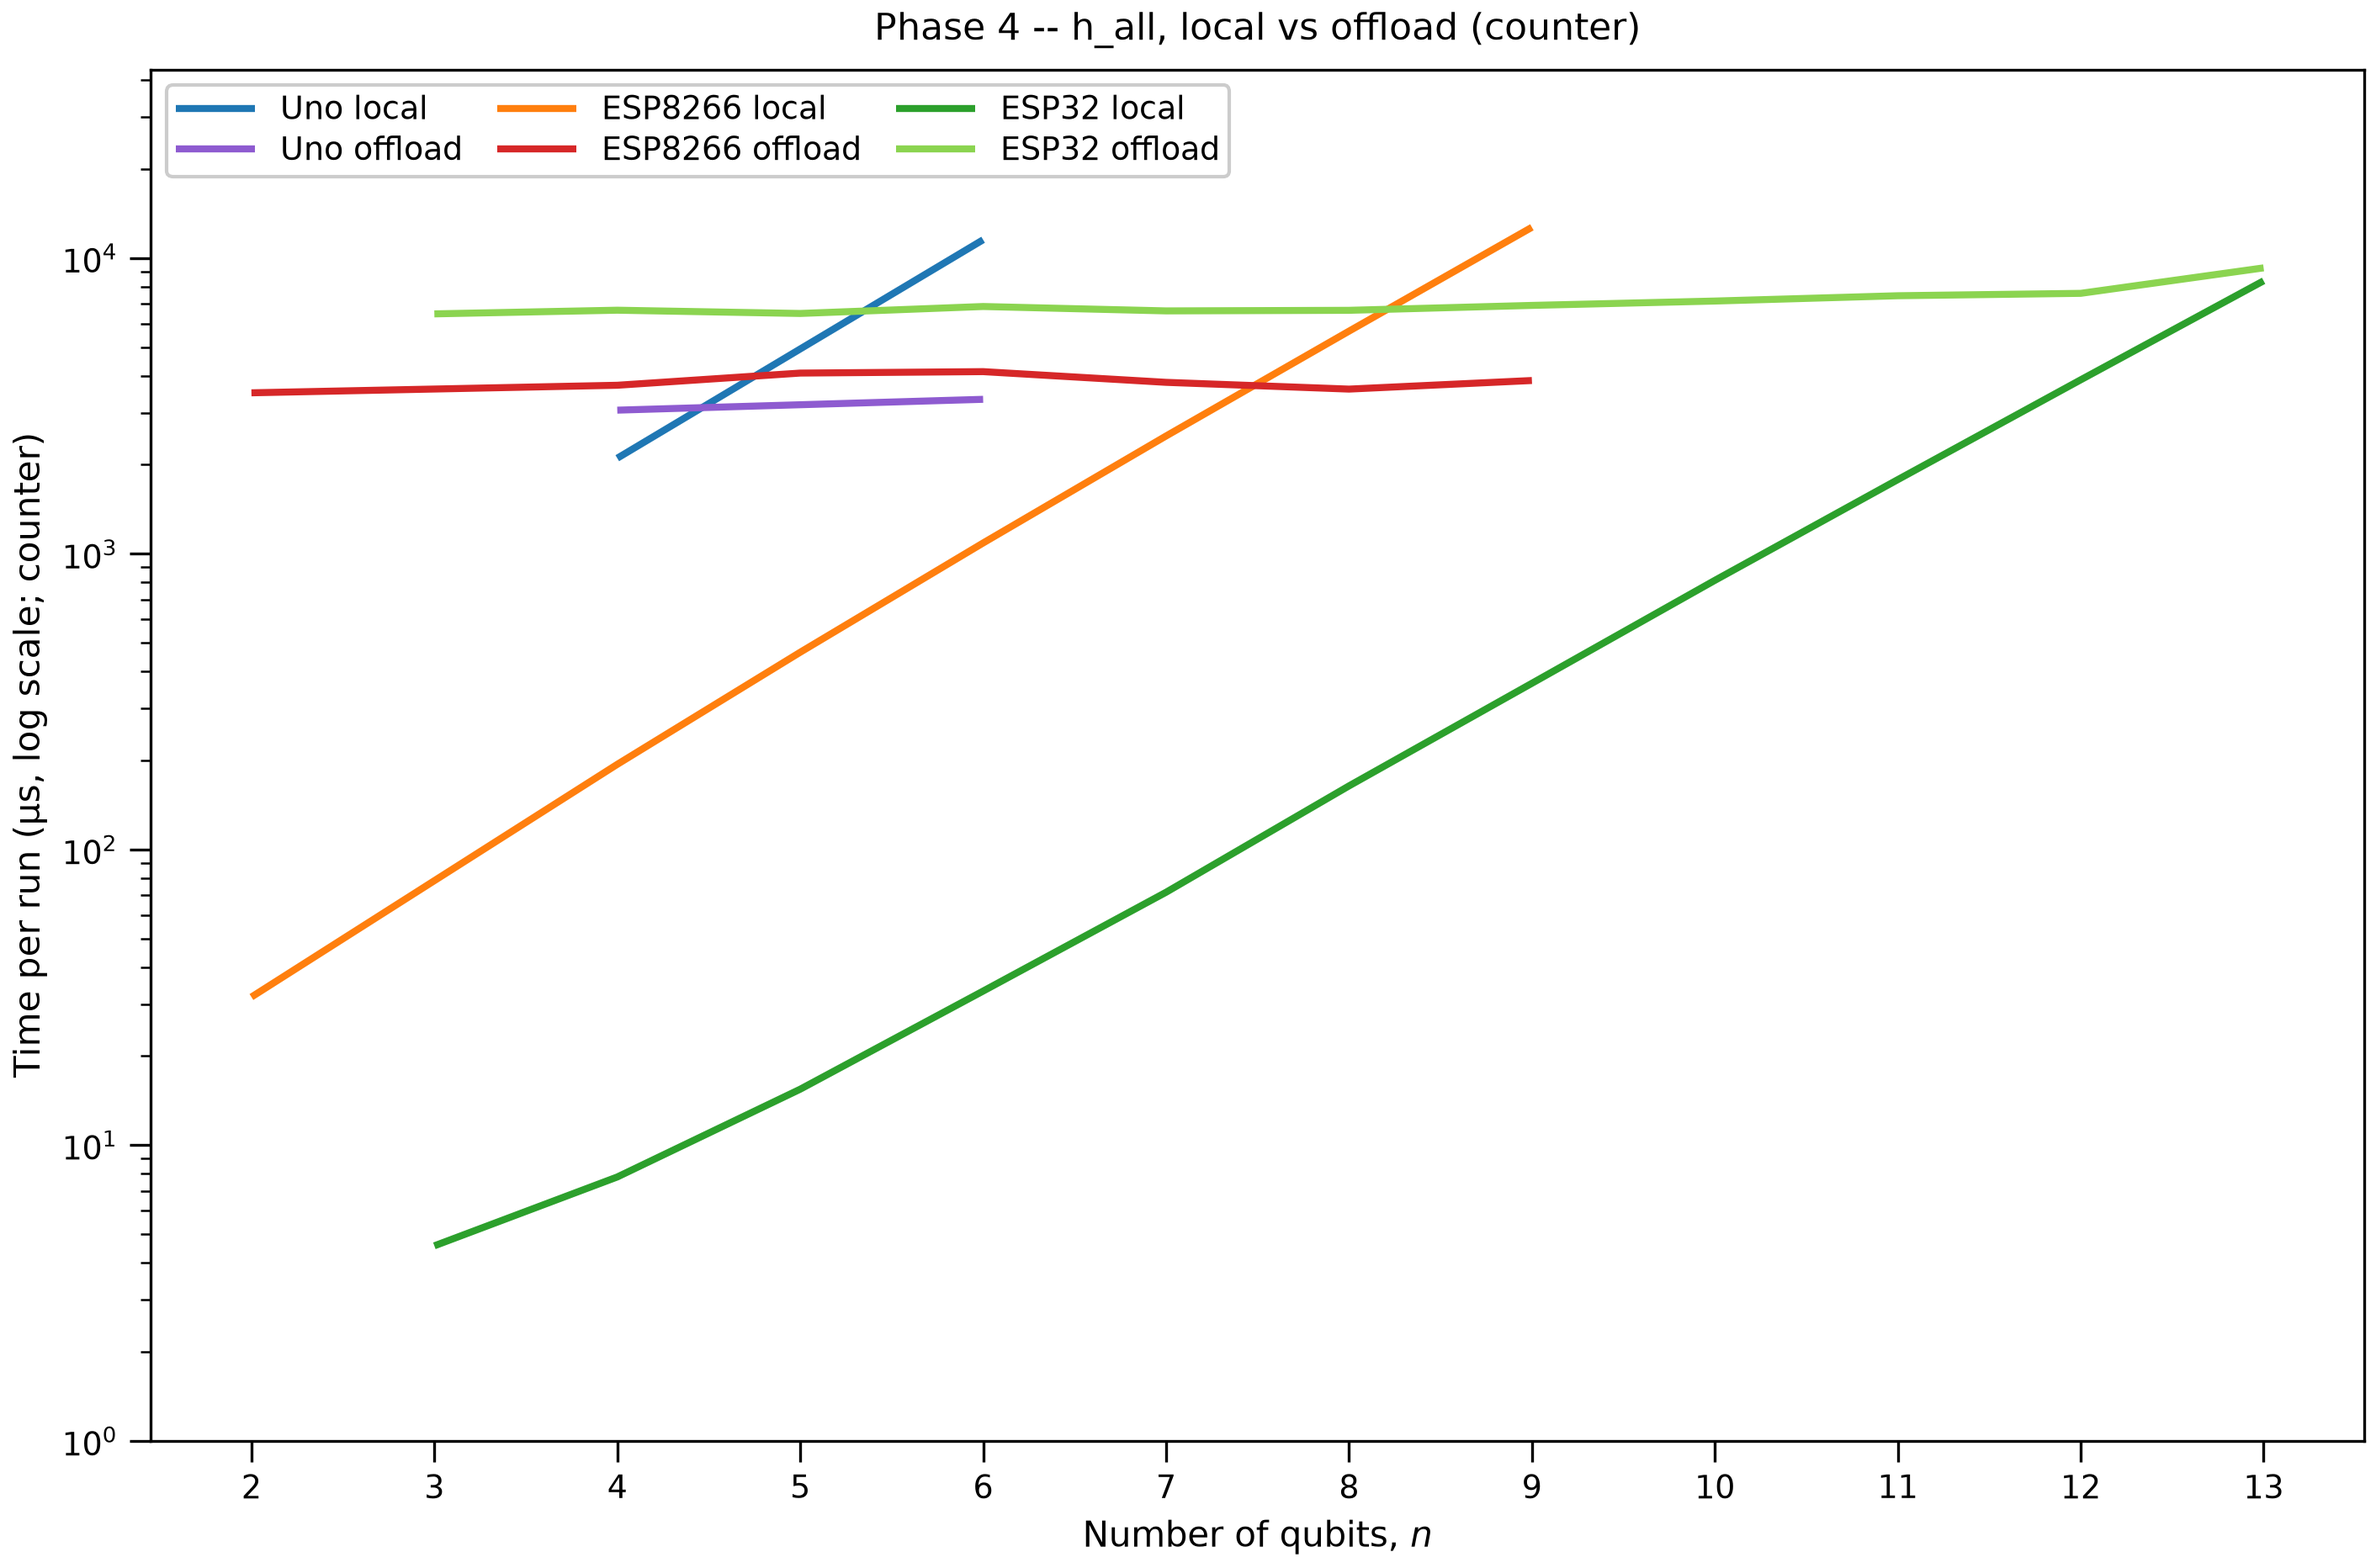
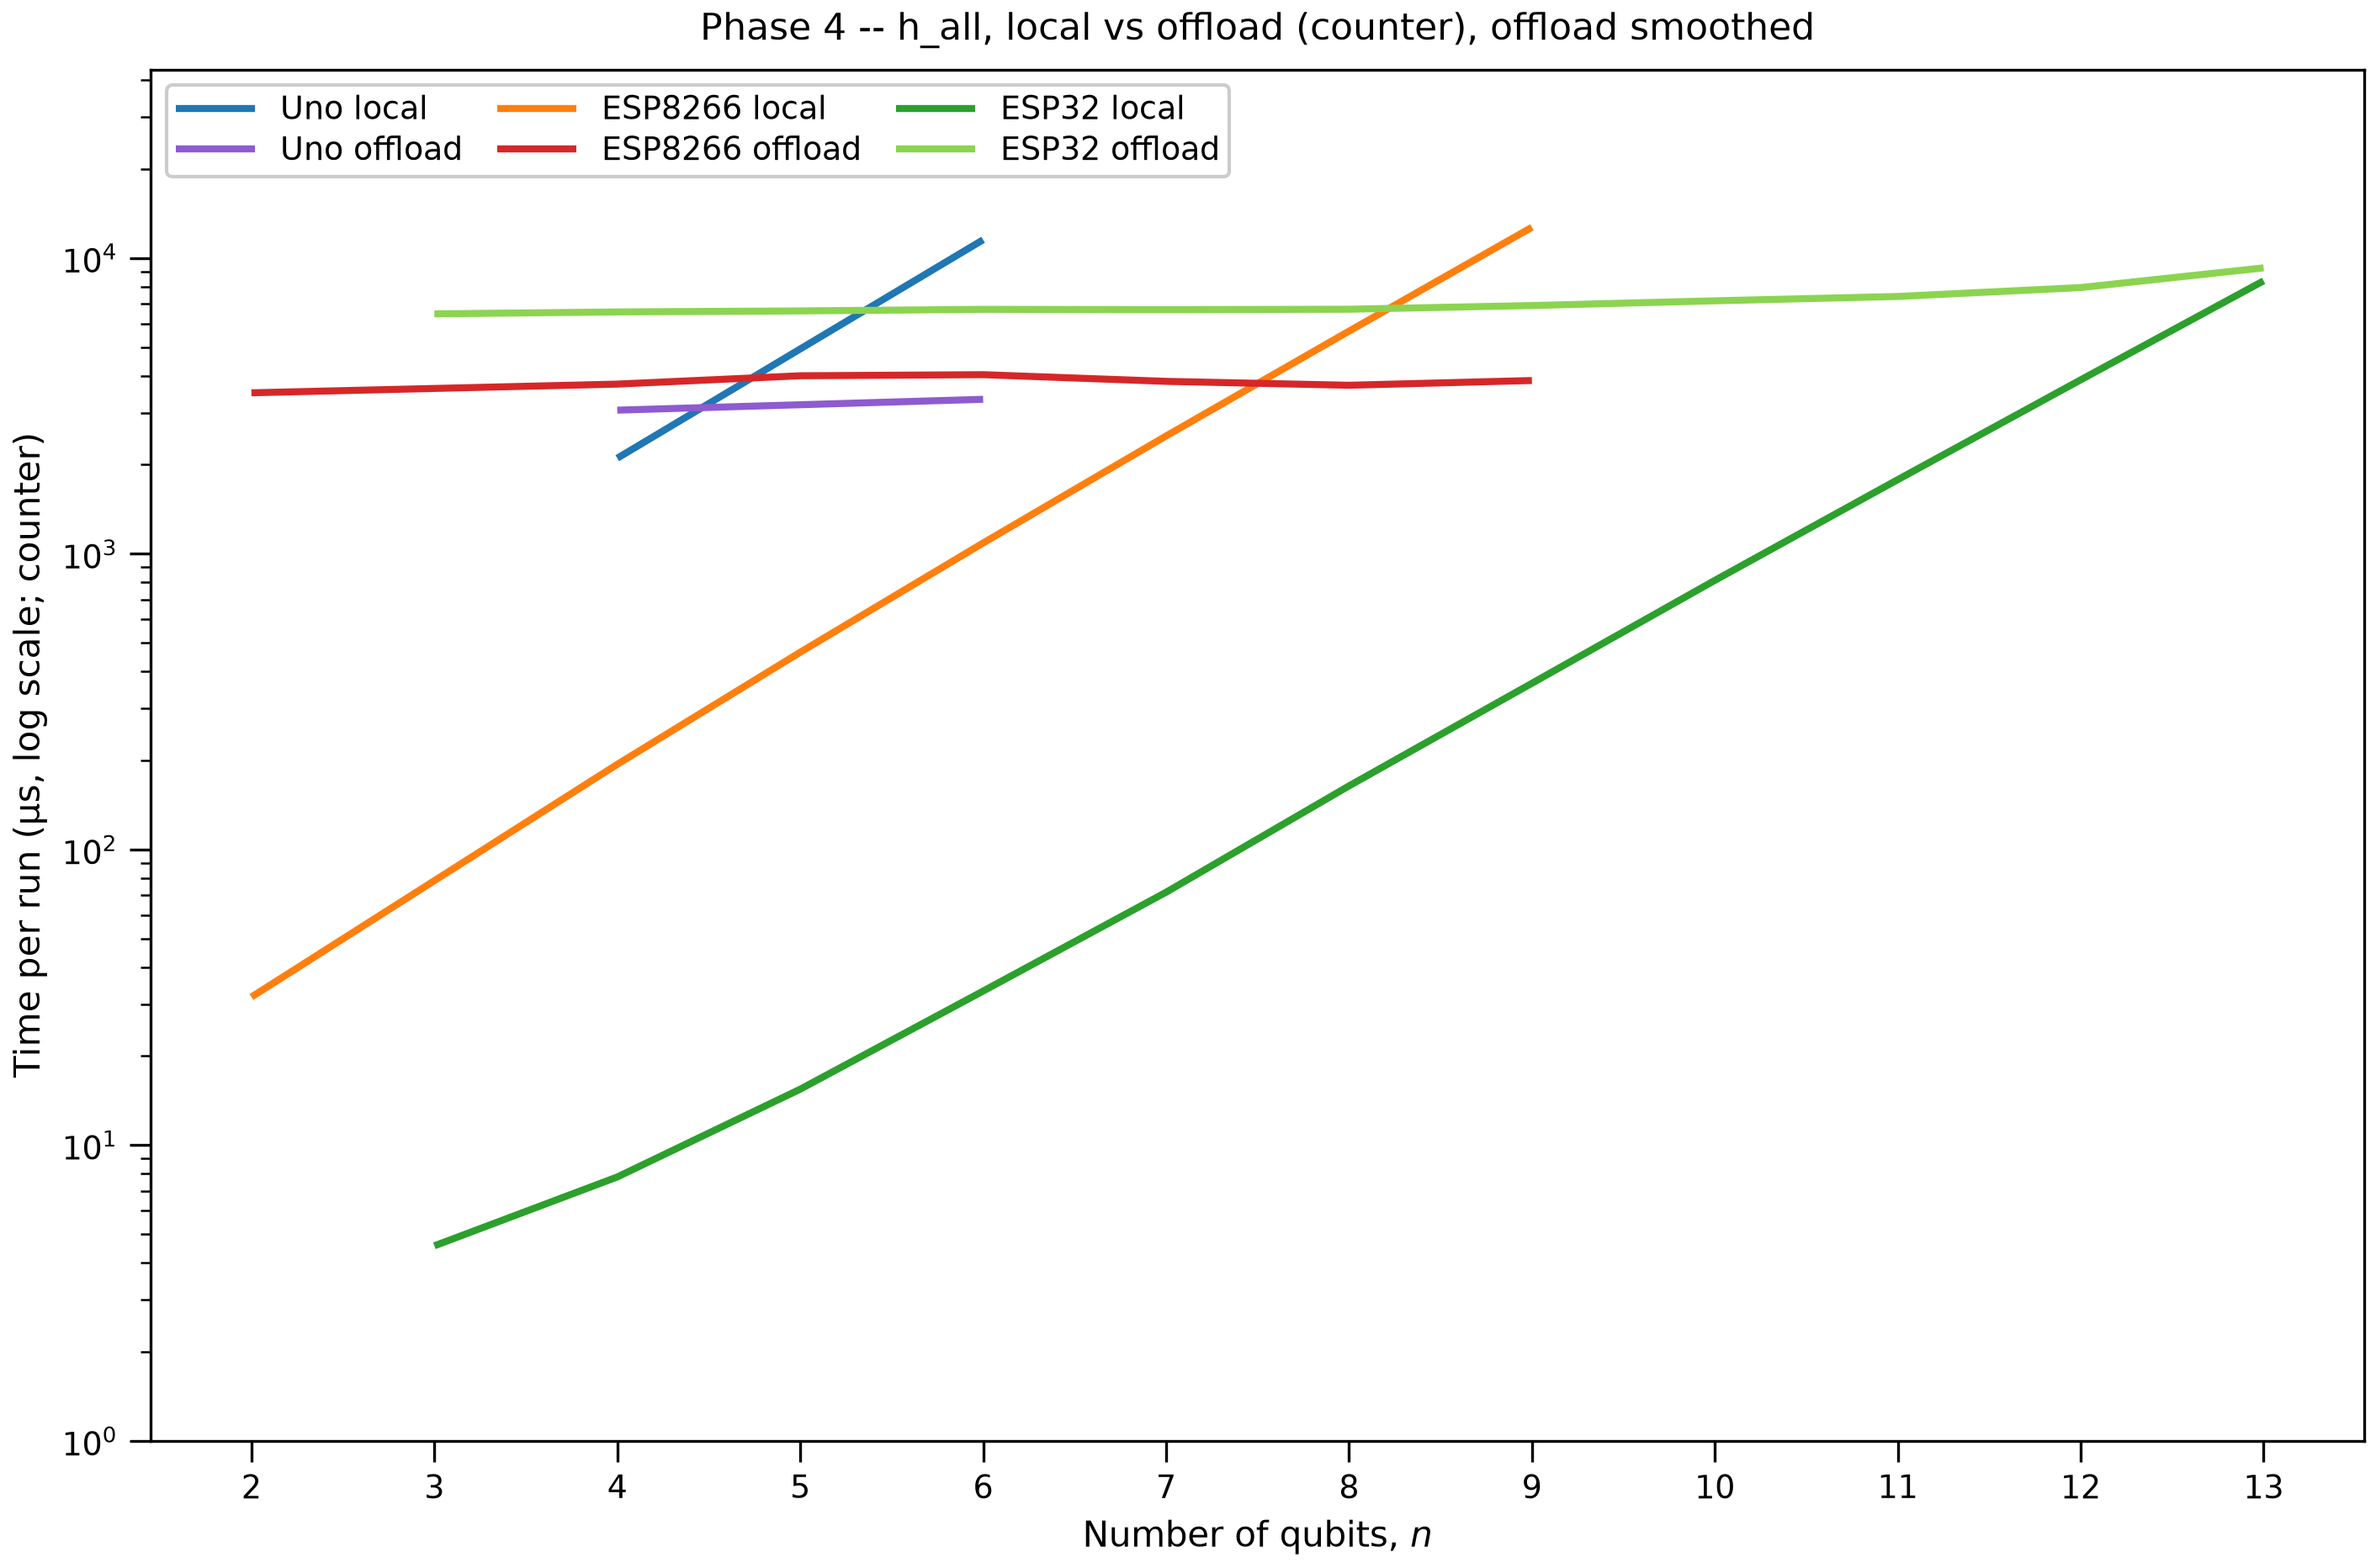
figures: algorithms charts, offload lines smoothed for display (stated in the title), local lines as measured
Claude-Session: https://claude.ai/code/session_01AE6WdfFceGc968bUQSKnsU

diff --git a/analysis/algorithm_house_plots.py b/analysis/algorithm_house_plots.py
@@ -1,6 +1,7 @@
 #!/usr/bin/env python3
 # algorithm_house_plots.py
 # One chart per circuit (three boards), in the house line-chart style of the graph-create skill (grouped log-y lines, no markers); group = board.
+# The offload (Phase 3) lines are smoothed for display; local lines are drawn as measured ([1,2,1]/4 average of log10 time over neighbouring points, end points kept); the title says so.
 # EVERY time here is the ESP32 reference counter's median pulse width of the point (data/derived/counter_validity.csv, selected sessions); the
 # board's own micros() is never drawn. Only points whose counter pair passed the validity rules (usable) are drawn; where a point is unusable the
 # line is drawn straight between the neighbouring usable points (no marker, so the gap is not visible: see the list printed at the end).
@@ -32,6 +33,16 @@ CIRC = ("h_all", "bell_ghz", "qft", "grover")
 PHASES = {2: ("Phase 2 -- {c}, local (counter)", [("local", 2)], "Time per run (µs, log scale; counter)"),
           3: ("Phase 3 -- {c}, offload (counter)", [("round trip", 3)], "Time per request (µs, log scale; counter)"),
           4: ("Phase 4 -- {c}, local vs offload (counter)", [("local", 2), ("offload", 3)], "Time per run (µs, log scale; counter)")}
+def smooth(vals):
+    """display smoothing only: [1, 2, 1] / 4 moving average of log10(time) over neighbouring points, the two end points are kept"""
+    v = np.log10(np.asarray(vals, float))
+    if len(v) < 3:
+        return list(10 ** v)
+    out = v.copy()
+    out[1:-1] = (v[:-2] + 2 * v[1:-1] + v[2:]) / 4
+    return list(10 ** out)
+
+
 for ph, (title, SER, ylab) in PHASES.items():
     for c in CIRC:
         rows = []
@@ -41,10 +52,11 @@ for ph, (title, SER, ylab) in PHASES.items():
                 g = cv[(cv.phase == src) & (cv.board == b) & (cv.circuit == c)]
                 have[lab] = dict(zip(g.n.astype(int), g.counter_median_us))
             ns = set.intersection(*[set(v) for v in have.values()]) if ph == 4 else None
-            for lab, _ in SER:
-                rows += [{"n": n, "time_us": float(t), "board": NAME[b], "series": lab} for n, t in sorted(have[lab].items()) if ns is None or n in ns]
+            for lab, src in SER:
+                pts = [(n, t) for n, t in sorted(have[lab].items()) if ns is None or n in ns]
+                rows += [{"n": n, "time_us": float(t), "board": NAME[b], "series": lab} for (n, _), t in zip(pts, smooth([t for _, t in pts]) if src == 3 else [t for _, t in pts])]
         df = pd.DataFrame(rows)
-        fig, ax = plot_grouped_lines(df, "n", "time_us", "board", "series", title=title.format(c=c), xlabel="Number of qubits, $n$", ylabel=ylab,
+        fig, ax = plot_grouped_lines(df, "n", "time_us", "board", "series", title=title.format(c=c) + (", offload smoothed" if any(src == 3 for _, src in SER) else ""), xlabel="Number of qubits, $n$", ylabel=ylab,
                                      group_order=list(NAME.values()), series_order=[s for s, _ in SER])
         # y axis fitted to the data: limits on the whole decades around it (plus headroom for the legend), a label at every decade, minor ticks at 2..9
         lo, hi = df.time_us.min(), df.time_us.max()
